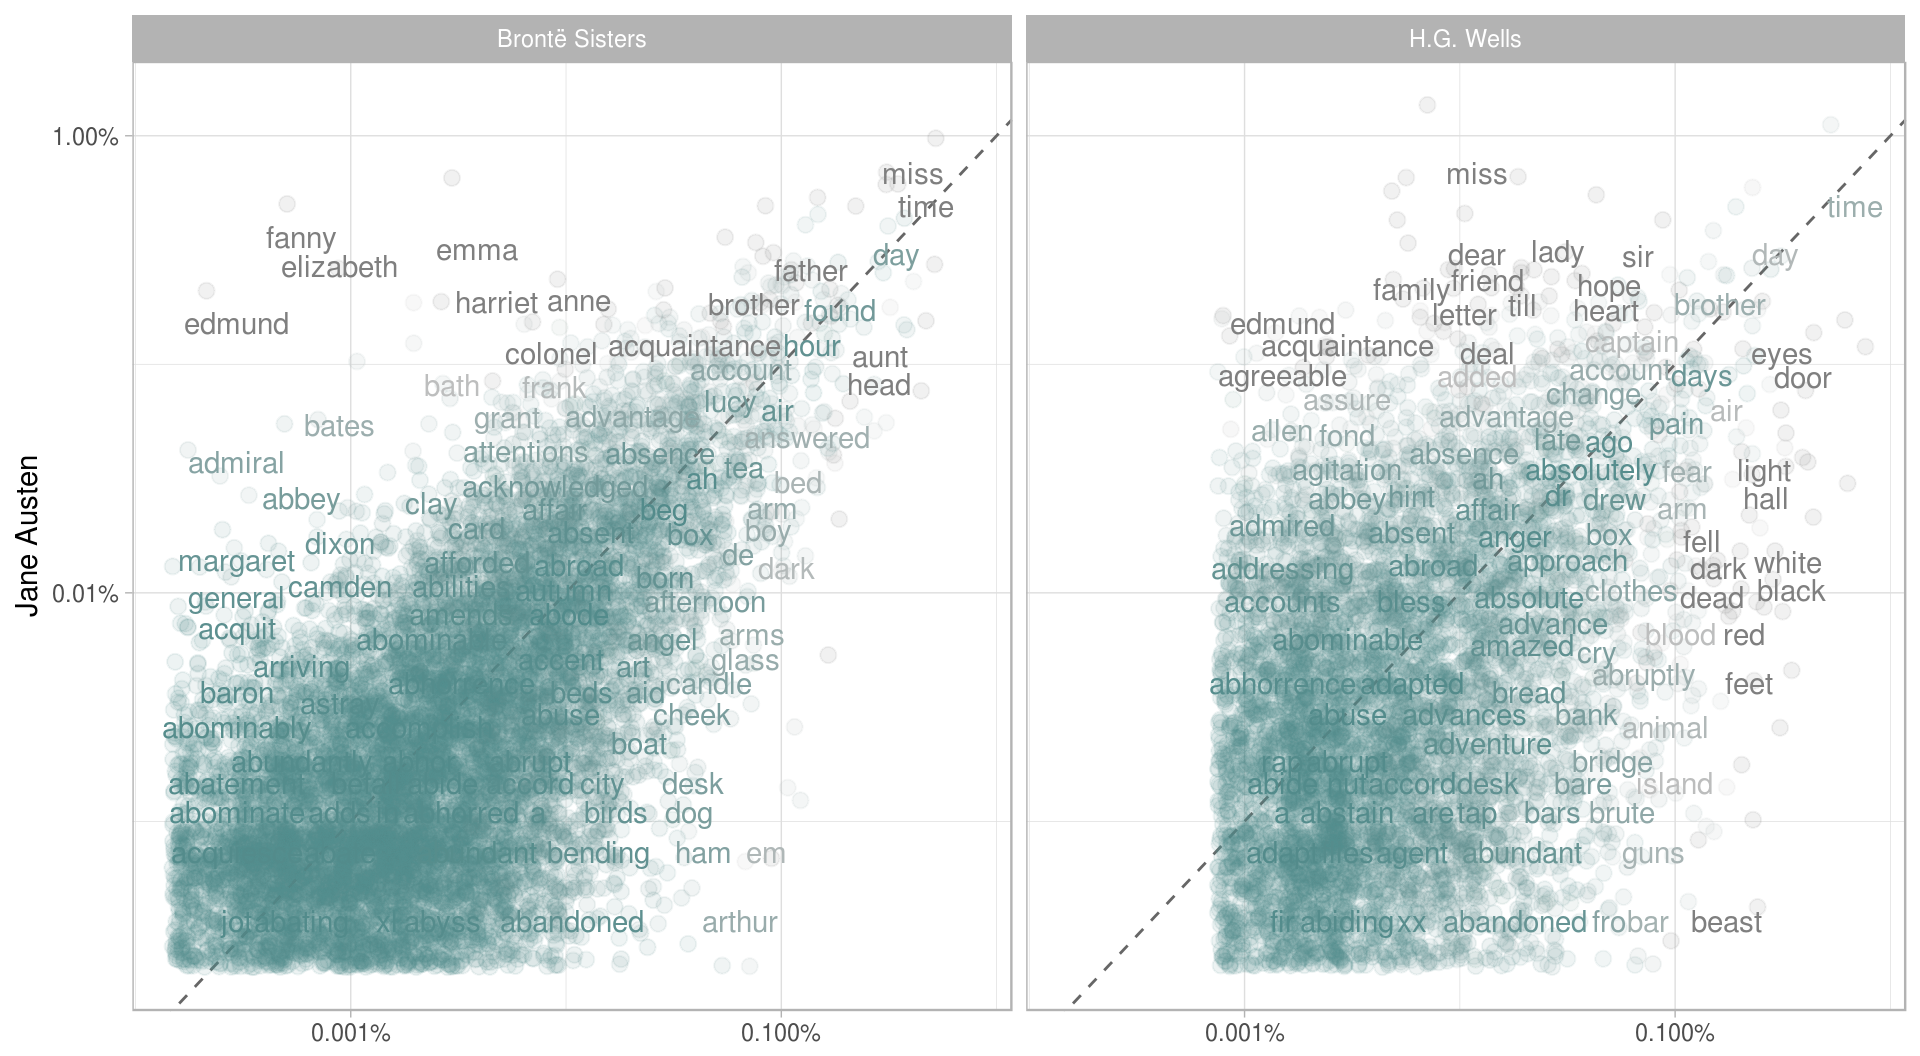
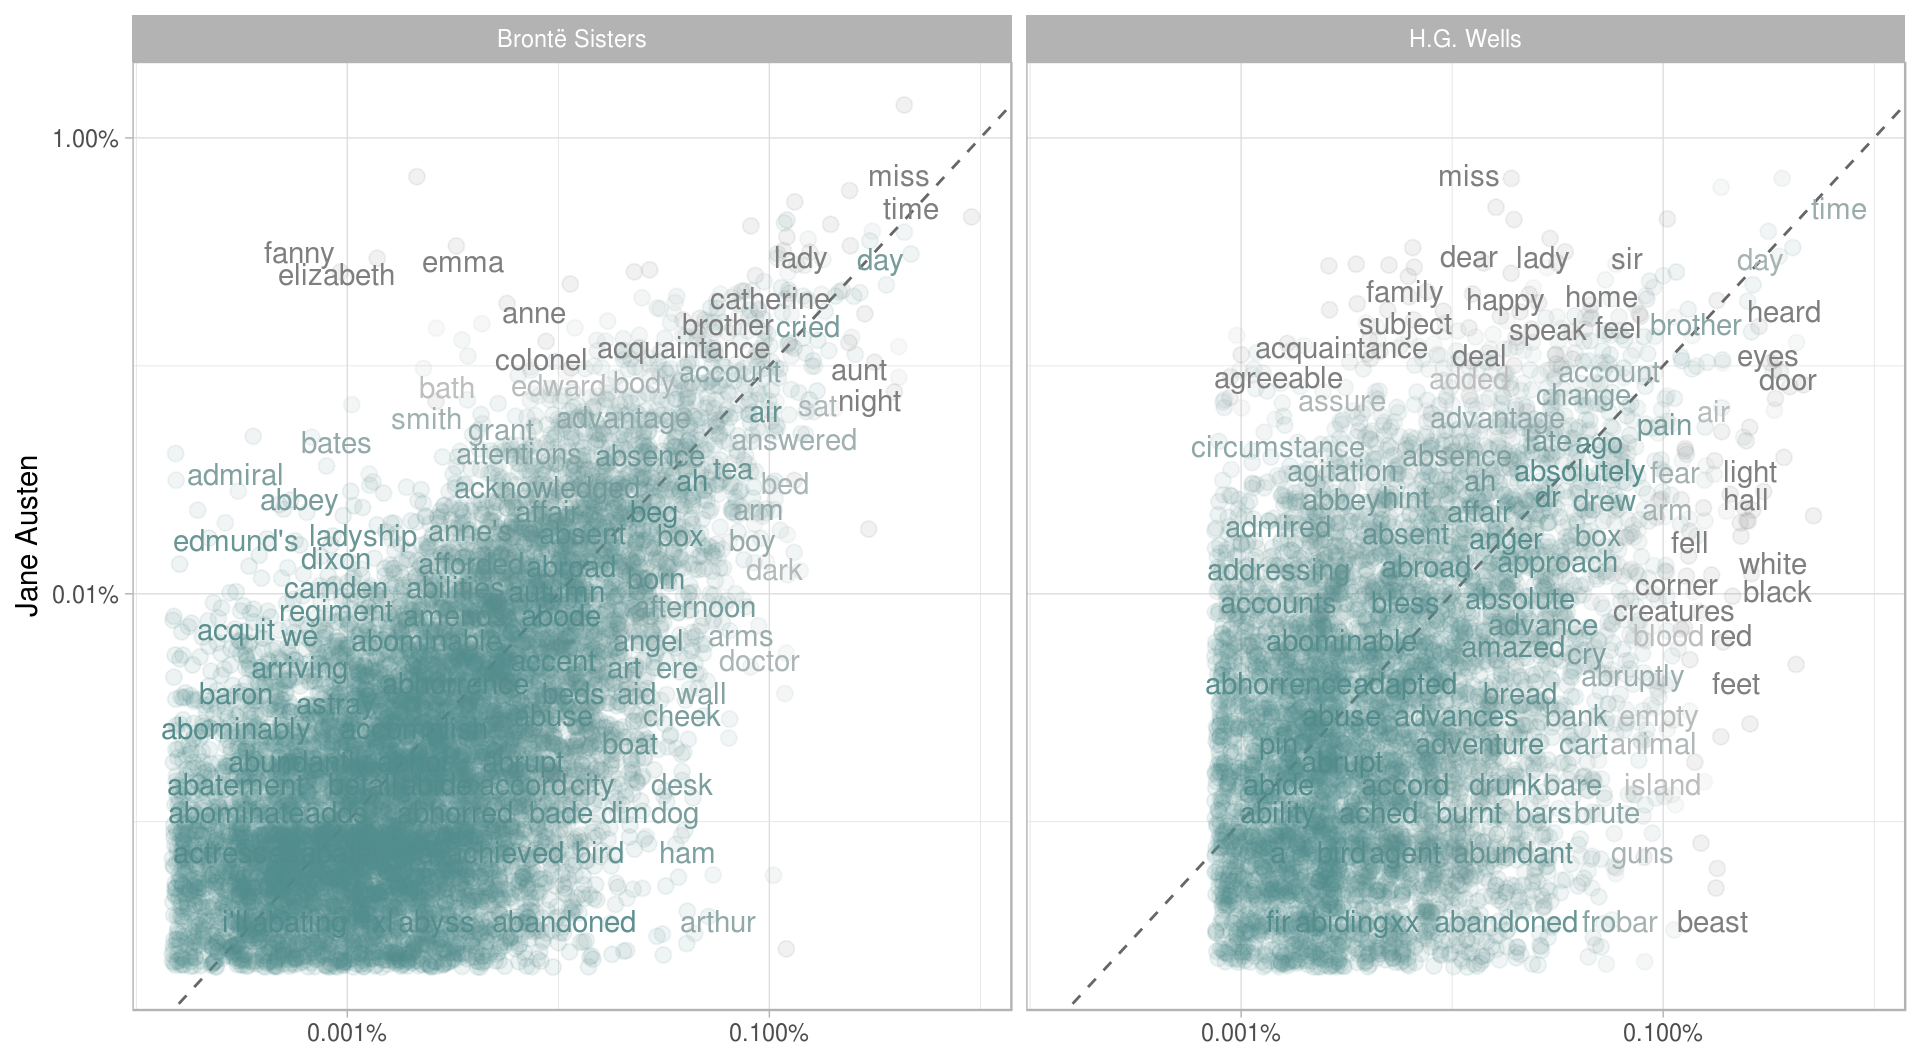
Updating book (257)

diff --git a/tidytext.html b/tidytext.html
@@ -245,10 +245,10 @@ code > span.in { color: #60a0b0; font-weight: bold; font-style: italic; } /* Inf
 <p>We define the tidy text format as being a table with <strong>one-term-per-row.</strong> Structuring text data in this way means that it conforms to tidy data principles and can be manipulated with a set of consistent tools. This is worth contrasting with the ways text is often stored in text mining approaches.</p>
 <ul>
 <li><strong>Raw string</strong>: Text can, of course, be stored as raw strings within R, and often text data is first read into memory in this form.</li>
-<li><strong>Corpus</strong>: These types of objects typically annotate the raw string content with additional metadata and details.</li>
+<li><strong>Corpus</strong>: These types of objects typically contain raw strings annotated with additional metadata and details.</li>
 <li><strong>Document-term matrix</strong>: This is a sparse matrix describing a collection (i.e., a corpus) of documents with one row for each document and one column for each term. The value in the matrix is typically word count or tf-idf (see Chapter <a href="tfidf.html#tfidf">4</a>).</li>
 </ul>
-<p>Let’s hold off on exploring structures like a document-term matrix until Chapter <a href="dtm.html#dtm">6</a>, and get down to the basics of converting text to a tidy format.</p>
+<p>Let’s hold off on exploring corpus and document-term matrix objects until Chapter <a href="dtm.html#dtm">6</a>, and get down to the basics of converting text to a tidy format.</p>
 <div id="the-unnest_tokens-function" class="section level2">
 <h2><span class="header-section-number">2.1</span> The <code>unnest_tokens</code> function</h2>
 <p>Emily Dickinson wrote some lovely text in her time.</p>
@@ -272,8 +272,8 @@ text_df</code></pre></div>
 ## 2     2             He kindly stopped for me -
 ## 3     3 The Carriage held but just Ourselves -
 ## 4     4                        and Immortality</code></pre>
-<p>Notice that this data frame isn’t yet compatible with tidy tools. We can’t filter out words or count which occur most frequently, since each row is made up of multiple combined words. We need to convert this so that it has <strong>one-token-per-document-per-row</strong>. A token, in this context, is a meaningful unit of text that we are interested in using for further analysis. Tokenization is the process of breaking up text into individual tokens, and it is most commonly done at the level of single words. Within our tidy text framework, we will both break the text into individual tokens <em>and</em> transform it to a tidy data structure.</p>
-<p>To do this, we use tidytext’s <code>unnest_tokens()</code> function.</p>
+<p>Notice that this data frame isn’t yet compatible with tidy tools. We can’t filter out words or count which occur most frequently, since each row is made up of multiple combined words. We need to convert this so that it has <strong>one-token-per-document-per-row</strong>. A token is a meaningful unit of text, most often a word, that we are interested in using for further analysis.</p>
+<p>Within our tidy text framework, we need to both break the text into individual tokens (a process called <em>tokenization</em>) <em>and</em> transform it to a tidy data structure. To do this, we use tidytext’s <code>unnest_tokens()</code> function.</p>
 <div class="sourceCode"><pre class="sourceCode r"><code class="sourceCode r"><span class="kw">library</span>(tidytext)
 
 text_df %&gt;%
@@ -329,7 +329,7 @@ original_books</code></pre></div>
 ## 9                        Sense &amp; Sensibility          9       0
 ## 10             CHAPTER 1 Sense &amp; Sensibility         10       1
 ## # ... with 73,412 more rows</code></pre>
-<p>To work with this as a tidy dataset, we need to restructure it in the <strong>one-token-per-row</strong> format. The <code>unnest_tokens()</code> function is a way to convert a data frame with a text column to be one-token-per-row.</p>
+<p>To work with this as a tidy dataset, we need to restructure it in the <strong>one-token-per-row</strong> format, which as we saw earlier is done with the <code>unnest_tokens()</code> function.</p>
 <div class="sourceCode"><pre class="sourceCode r"><code class="sourceCode r"><span class="kw">library</span>(tidytext)
 tidy_books &lt;-<span class="st"> </span>original_books %&gt;%
 <span class="st">  </span><span class="kw">unnest_tokens</span>(word, text)
@@ -355,7 +355,7 @@ tidy_books</code></pre></div>
 
 tidy_books &lt;-<span class="st"> </span>tidy_books %&gt;%
 <span class="st">  </span><span class="kw">anti_join</span>(stop_words)</code></pre></div>
-<p>We can also use <code>count()</code> to find the most common words in all the books as a whole.</p>
+<p>We can also use dplyr’s <code>count()</code> to find the most common words in all the books as a whole.</p>
 <div class="sourceCode"><pre class="sourceCode r"><code class="sourceCode r">tidy_books %&gt;%
 <span class="st">  </span><span class="kw">count</span>(word, <span class="dt">sort =</span> <span class="ot">TRUE</span>) </code></pre></div>
 <pre><code>## # A tibble: 13,914 × 2
@@ -372,7 +372,7 @@ tidy_books &lt;-<span class="st"> </span>tidy_books %&gt;%
 ## 9  sister   727
 ## 10  house   699
 ## # ... with 13,904 more rows</code></pre>
-<p>For example, this allows us to visualize the commonly used words using ggplot2.</p>
+<p>Because we’ve been using tidy tools, our word counts are stored in a tidy data frame. This allows us to pipe this directly the ggplot2 package, for example to create a visualization of the most common words (Figure @ref(#plotcount)).</p>
 <div class="sourceCode"><pre class="sourceCode r"><code class="sourceCode r"><span class="kw">library</span>(ggplot2)
 
 tidy_books %&gt;%
@@ -389,7 +389,6 @@ tidy_books %&gt;%
 Figure 2.1: The most common words in Jane Austen’s novels
 </p>
 </div>
-<p>We could pipe this straight into ggplot2 because of our consistent use of tidy tools.</p>
 </div>
 <div id="the-gutenbergr-package" class="section level2">
 <h2><span class="header-section-number">2.3</span> The gutenbergr package</h2>
@@ -450,17 +449,17 @@ hgwells &lt;-<span class="st"> </span><span class="kw">gutenberg_download</span>
   <span class="kw">mutate</span>(tidy_hgwells, <span class="dt">author =</span> <span class="st">&quot;H.G. Wells&quot;</span>))
 
 austen_percent &lt;-<span class="st"> </span>tidy_books %&gt;%
-<span class="st">  </span><span class="kw">mutate</span>(<span class="dt">word =</span> <span class="kw">str_extract</span>(word, <span class="st">&quot;[a-z]+&quot;</span>)) %&gt;%
+<span class="st">  </span><span class="kw">mutate</span>(<span class="dt">word =</span> <span class="kw">str_extract</span>(word, <span class="st">&quot;[a-z&#39;]+&quot;</span>)) %&gt;%
 <span class="st">  </span><span class="kw">count</span>(word) %&gt;%
 <span class="st">  </span><span class="kw">transmute</span>(word, <span class="dt">austen =</span> n /<span class="st"> </span><span class="kw">sum</span>(n))
 
 frequency &lt;-<span class="st"> </span>tidy_both %&gt;%
-<span class="st">  </span><span class="kw">mutate</span>(<span class="dt">word =</span> <span class="kw">str_extract</span>(word, <span class="st">&quot;[a-z]+&quot;</span>)) %&gt;%
+<span class="st">  </span><span class="kw">mutate</span>(<span class="dt">word =</span> <span class="kw">str_extract</span>(word, <span class="st">&quot;[a-z&#39;]+&quot;</span>)) %&gt;%
 <span class="st">  </span><span class="kw">count</span>(author, word) %&gt;%
 <span class="st">  </span><span class="kw">mutate</span>(<span class="dt">other =</span> n /<span class="st"> </span><span class="kw">sum</span>(n)) %&gt;%
 <span class="st">  </span><span class="kw">left_join</span>(austen_percent) %&gt;%
 <span class="st">  </span><span class="kw">ungroup</span>()</code></pre></div>
-<p>We use <code>str_extract()</code> here because the UTF-8 encoded texts from Project Gutenberg have some examples of words with underscores around them to indicate emphasis (like italics). The tokenizer treated these as words but we don’t want to count “_any_” separately from “any”. Now let’s plot.</p>
+<p>We use <code>str_extract()</code> here because the UTF-8 encoded texts from Project Gutenberg have some examples of words with underscores around them to indicate emphasis (like italics). The tokenizer treated these as words, but we don’t want to count “_any_” separately from “any”. Now let’s plot (Figure <a href="tidytext.html#fig:plotcompare">2.2</a>).</p>
 <div class="sourceCode"><pre class="sourceCode r"><code class="sourceCode r"><span class="kw">library</span>(scales)
 
 <span class="kw">ggplot</span>(frequency, <span class="kw">aes</span>(<span class="dt">x =</span> other, <span class="dt">y =</span> austen, <span class="dt">color =</span> <span class="kw">abs</span>(austen -<span class="st"> </span>other))) +
@@ -488,27 +487,27 @@ Figure 2.2: Comparing the word frequencies of Jane Austen, the Brontë sisters, 
 ##  Pearson&#39;s product-moment correlation
 ## 
 ## data:  other and austen
-## t = 119.43, df = 10765, p-value &lt; 2.2e-16
+## t = 124.28, df = 10866, p-value &lt; 2.2e-16
 ## alternative hypothesis: true correlation is not equal to 0
 ## 95 percent confidence interval:
-##  0.7466616 0.7629140
+##  0.7583028 0.7738345
 ## sample estimates:
 ##       cor 
-## 0.7549037</code></pre>
+## 0.7661805</code></pre>
 <div class="sourceCode"><pre class="sourceCode r"><code class="sourceCode r"><span class="kw">cor.test</span>(<span class="dt">data =</span> frequency[frequency$author ==<span class="st"> &quot;H.G. Wells&quot;</span>,], 
          ~<span class="st"> </span>other +<span class="st"> </span>austen)</code></pre></div>
 <pre><code>## 
 ##  Pearson&#39;s product-moment correlation
 ## 
 ## data:  other and austen
-## t = 35.91, df = 6027, p-value &lt; 2.2e-16
+## t = 36.441, df = 6053, p-value &lt; 2.2e-16
 ## alternative hypothesis: true correlation is not equal to 0
 ## 95 percent confidence interval:
-##  0.3988024 0.4403950
+##  0.4032820 0.4446006
 ## sample estimates:
-##       cor 
-## 0.4198191</code></pre>
-<p>The relationship between the word frequencies is different between these sets of texts, as it appears in the plots.</p>
+##      cor 
+## 0.424162</code></pre>
+<p>Just as we saw in the plots, the word frequencies are more correlated between the Austen and Brontë novels than between Austen and H.G. Wells.</p>
 
 </div>
 </div>

diff --git a/02-tidy-text.md b/02-tidy-text.md
@@ -5,10 +5,10 @@
 We define the tidy text format as being a table with **one-term-per-row.** Structuring text data in this way means that it conforms to tidy data principles and can be manipulated with a set of consistent tools. This is worth contrasting with the ways text is often stored in text mining approaches.
 
 * **Raw string**: Text can, of course, be stored as raw strings within R, and often text data is first read into memory in this form.
-* **Corpus**: These types of objects typically annotate the raw string content with additional metadata and details.
+* **Corpus**: These types of objects typically contain raw strings annotated with additional metadata and details.
 * **Document-term matrix**: This is a sparse matrix describing a collection (i.e., a corpus) of documents with one row for each document and one column for each term. The value in the matrix is typically word count or tf-idf (see Chapter \@ref(tfidf)).
 
-Let's hold off on exploring structures like a document-term matrix until Chapter \@ref(dtm), and get down to the basics of converting text to a tidy format.
+Let's hold off on exploring corpus and document-term matrix objects until Chapter \@ref(dtm), and get down to the basics of converting text to a tidy format.
 
 ## The `unnest_tokens` function
 
@@ -49,9 +49,9 @@ text_df
 ## 4     4                        and Immortality
 ```
 
-Notice that this data frame isn't yet compatible with tidy tools. We can't filter out words or count which occur most frequently, since each row is made up of multiple combined words. We need to convert this so that it has **one-token-per-document-per-row**. A token, in this context, is a meaningful unit of text that we are interested in using for further analysis. Tokenization is the process of breaking up text into individual tokens, and it is most commonly done at the level of single words. Within our tidy text framework, we will both break the text into individual tokens *and* transform it to a tidy data structure.
+Notice that this data frame isn't yet compatible with tidy tools. We can't filter out words or count which occur most frequently, since each row is made up of multiple combined words. We need to convert this so that it has **one-token-per-document-per-row**. A token is a meaningful unit of text, most often a word, that we are interested in using for further analysis.
 
-To do this, we use tidytext's `unnest_tokens()` function.
+Within our tidy text framework, we need to both break the text into individual tokens (a process called *tokenization*) *and* transform it to a tidy data structure. To do this, we use tidytext's `unnest_tokens()` function.
 
 
 ```r
@@ -123,7 +123,7 @@ original_books
 ## # ... with 73,412 more rows
 ```
 
-To work with this as a tidy dataset, we need to restructure it in the **one-token-per-row** format. The `unnest_tokens()` function is a way to convert a data frame with a text column to be one-token-per-row.
+To work with this as a tidy dataset, we need to restructure it in the **one-token-per-row** format, which as we saw earlier is done with the `unnest_tokens()` function.
 
 
 ```r
@@ -163,7 +163,7 @@ tidy_books <- tidy_books %>%
   anti_join(stop_words)
 ```
 
-We can also use `count()` to find the most common words in all the books as a whole.
+We can also use dplyr's `count()` to find the most common words in all the books as a whole.
 
 
 ```r
@@ -188,7 +188,7 @@ tidy_books %>%
 ## # ... with 13,904 more rows
 ```
 
-For example, this allows us to visualize the commonly used words using ggplot2.
+Because we've been using tidy tools, our word counts are stored in a tidy data frame. This allows us to pipe this directly the ggplot2 package, for example to create a visualization of the most common words (Figure \@ref(#plotcount)).
 
 
 ```r
@@ -208,8 +208,6 @@ tidy_books %>%
 <img src="02-tidy-text_files/figure-html/plotcount-1.png" alt="The most common words in Jane Austen's novels" width="576" />
 <p class="caption">(\#fig:plotcount)The most common words in Jane Austen's novels</p>
 </div>
-
-We could pipe this straight into ggplot2 because of our consistent use of tidy tools.
 
 ## The gutenbergr package
 
@@ -312,19 +310,19 @@ tidy_both <- bind_rows(
   mutate(tidy_hgwells, author = "H.G. Wells"))
 
 austen_percent <- tidy_books %>%
-  mutate(word = str_extract(word, "[a-z]+")) %>%
+  mutate(word = str_extract(word, "[a-z']+")) %>%
   count(word) %>%
   transmute(word, austen = n / sum(n))
 
 frequency <- tidy_both %>%
-  mutate(word = str_extract(word, "[a-z]+")) %>%
+  mutate(word = str_extract(word, "[a-z']+")) %>%
   count(author, word) %>%
   mutate(other = n / sum(n)) %>%
   left_join(austen_percent) %>%
   ungroup()
 ```
 
-We use `str_extract()` here because the UTF-8 encoded texts from Project Gutenberg have some examples of words with underscores around them to indicate emphasis (like italics). The tokenizer treated these as words but we don't want to count "\_any\_" separately from "any". Now let's plot.
+We use `str_extract()` here because the UTF-8 encoded texts from Project Gutenberg have some examples of words with underscores around them to indicate emphasis (like italics). The tokenizer treated these as words, but we don't want to count "\_any\_" separately from "any". Now let's plot (Figure \@ref(fig:plotcompare)).
 
 
 ```r
@@ -349,7 +347,7 @@ ggplot(frequency, aes(x = other, y = austen, color = abs(austen - other))) +
 
 Words that are close to the line in these plots have similar frequencies in both sets of texts, for example, in both Austen and Brontë texts ("miss", "time", "day" at the upper frequency end) or in both Austen and Wells texts ("time", "day", "brother" at the high frequency end). Words that are far from the line are words that are found more in one set of texts than another. For example, in the Austen-Brontë panel, words like "elizabeth", "emma", and "edmund" (all proper nouns) are found in Austen's texts but not much in the Brontë texts, while words like "arthur", "dog", and "ham" are found in the Brontë texts but not the Austen texts. In comparing H.G. Wells with Jane Austen, Wells uses words like "beast", "island", "feet", and "black" that Austen does not, while Austen uses words like "family", "friend", "letter", and "dear" that Wells does not.
 
-Overall, notice in Figure \@ref(fig:plotcompare) that the words in the Austen-Brontë panel are closer to the zero-slope line than in the Austen-Wells panel and also extend to lower frequencies; Austen and the Brontë sisters use more similar words than Austen and H.G. Wells. Also, we  notice that not all the words are found in all three sets of texts and there are fewer points in the plot for Austen and H.G. Wells.
+Overall, notice in Figure \@ref(fig:plotcompare) that the words in the Austen-Brontë panel are closer to the zero-slope line than in the Austen-Wells panel and also extend to lower frequencies; Austen and the Brontë sisters use more similar words than Austen and H.G. Wells. Also, we notice that not all the words are found in all three sets of texts and there are fewer points in the plot for Austen and H.G. Wells.
 
 Let's quantify how similar and different these sets of word frequencies are using a correlation test. How correlated are the word frequencies between Austen and the Brontë sisters, and between Austen and Wells?
 
@@ -364,13 +362,13 @@ cor.test(data = frequency[frequency$author == "Brontë Sisters",],
 ## 	Pearson's product-moment correlation
 ## 
 ## data:  other and austen
-## t = 119.43, df = 10765, p-value < 2.2e-16
+## t = 124.28, df = 10866, p-value < 2.2e-16
 ## alternative hypothesis: true correlation is not equal to 0
 ## 95 percent confidence interval:
-##  0.7466616 0.7629140
+##  0.7583028 0.7738345
 ## sample estimates:
 ##       cor 
-## 0.7549037
+## 0.7661805
 ```
 
 ```r
@@ -383,13 +381,13 @@ cor.test(data = frequency[frequency$author == "H.G. Wells",],
 ## 	Pearson's product-moment correlation
 ## 
 ## data:  other and austen
-## t = 35.91, df = 6027, p-value < 2.2e-16
+## t = 36.441, df = 6053, p-value < 2.2e-16
 ## alternative hypothesis: true correlation is not equal to 0
 ## 95 percent confidence interval:
-##  0.3988024 0.4403950
+##  0.4032820 0.4446006
 ## sample estimates:
-##       cor 
-## 0.4198191
+##      cor 
+## 0.424162
 ```
 
-The relationship between the word frequencies is different between these sets of texts, as it appears in the plots.
+Just as we saw in the plots, the word frequencies are more correlated between the Austen and Brontë novels than between Austen and H.G. Wells.
